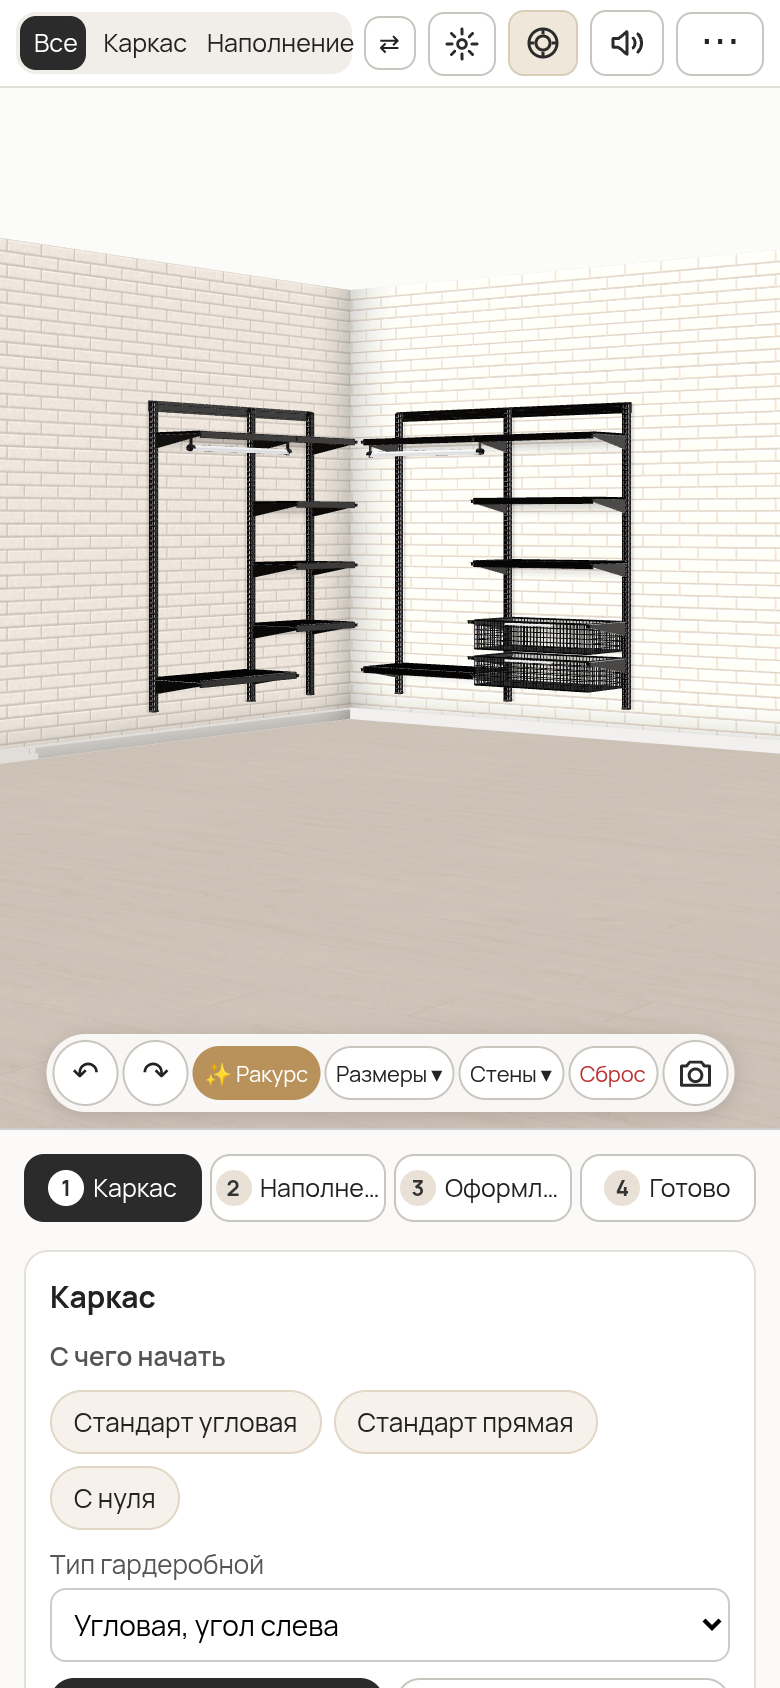
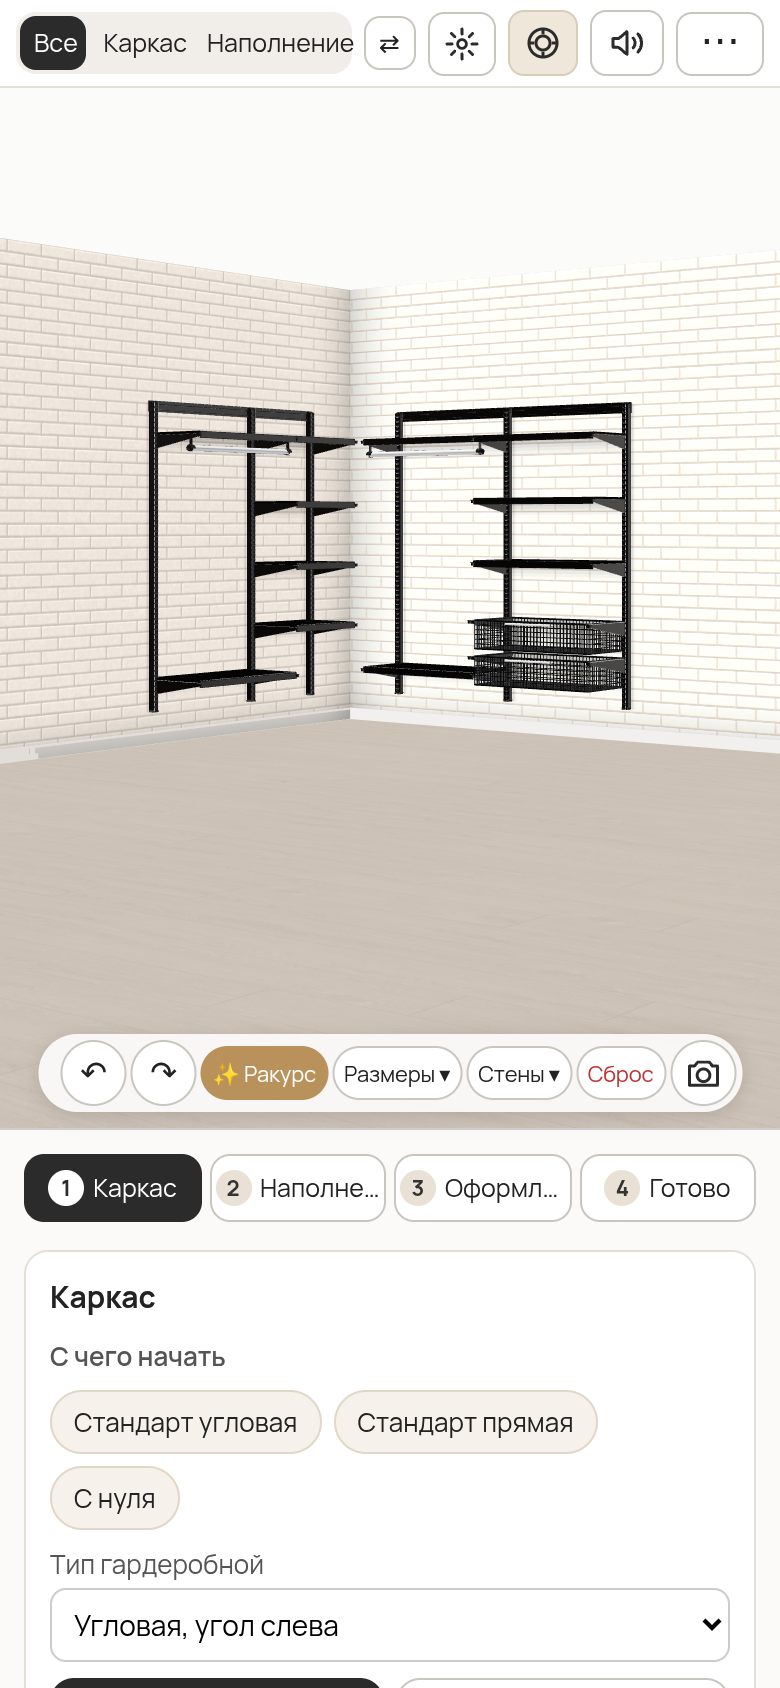
v11o: contrasty chrome rods, floor folds down below camera, shelf-rod link buttons, basket length/depth/height, slots only on upright front

diff --git a/app.js b/app.js
@@ -329,11 +329,12 @@ function makeMats() {
   M.wire = new THREE.MeshPhysicalMaterial({ ...PB, roughness: S.metal === 'black' ? 0.45 : 0.55, clearcoat: 0, sheen: 0, specularIntensity: 0.25, envMapIntensity: Math.min(0.6, PB.envMapIntensity || 0.6) });
   const dark = S.metal === 'black', pt = slotTex(false, dark).clone(); pt.needsUpdate = true; pt.repeat.set(1, S.postH / 32);
   // uprights: crisp perforation as color + bump relief, powder grain in the roughness
-  M.post = new THREE.MeshPhysicalMaterial({ ...PB, map: pt, bumpMap: pt, bumpScale: 2.2, roughnessMap: rep(G.rough, 1, S.postH / 60) });
+  M.postF = new THREE.MeshPhysicalMaterial({ ...PB, map: pt, bumpMap: pt, bumpScale: 2.2, roughnessMap: rep(G.rough, 1, S.postH / 60), polygonOffset: true, polygonOffsetFactor: -2, polygonOffsetUnits: -2 });
+  M.post = new THREE.MeshPhysicalMaterial({ ...PB, roughnessMap: rep(G.rough, 1, S.postH / 60) }); // solid sides; slots only on the front face
   const rt = slotTex(true, dark).clone(); rt.needsUpdate = true; M.railTex = rt;
   // top rail: smooth solid profile without perforation (only the uprights carry the slot rows)
   M.rail = new THREE.MeshPhysicalMaterial({ ...PB, normalMap: rep(G.nor, 30, 1), normalScale: new THREE.Vector2(0.18, 0.18), roughnessMap: rep(G.rough, 30, 1) });
-  M.chrome = new THREE.MeshPhysicalMaterial({ color: 0xffffff, metalness: 1, roughness: 0.05, clearcoat: 1, clearcoatRoughness: 0.02, specularIntensity: 1, emissive: new THREE.Color(0x5a5e64), envMap: chromeEnv(), envMapIntensity: 2 * Math.max(0.8, gm), userData: { chrome: true } });
+  M.chrome = new THREE.MeshPhysicalMaterial({ color: 0xffffff, metalness: 1, roughness: 0.03, clearcoat: 1, clearcoatRoughness: 0.01, specularIntensity: 1, emissive: new THREE.Color(0x0c0d0f), envMap: chromeEnv(), envMapIntensity: 1.7, userData: { chrome: true } });
   M.rod = S.rod === 'white' ? new THREE.MeshPhysicalMaterial({ color: METAL.white, metalness: 0.04, roughness: 0.3, clearcoat: 0.6, clearcoatRoughness: 0.16, emissive: new THREE.Color(0x10141a), sheen: 0.3, sheenColor: new THREE.Color(0xeef4ff), envMapIntensity: 0.95 * gm, normalMap: rep(G.nor, 8, 2), normalScale: new THREE.Vector2(0.2, 0.2) }) : M.chrome;
   M.plastic = new THREE.MeshStandardMaterial({ color: dark ? 0x2a2b2e : S.metal === 'silver' ? 0xb4b7ba : 0xf6f7f8, roughness: 0.5, metalness: 0 });
   M.rubber = new THREE.MeshStandardMaterial({ color: 0x3a3b3d, roughness: 0.85, metalness: 0 });
@@ -395,7 +396,7 @@ function buildWall(wi) {
   const pt = (S.railTop * 10 - 10) * MM;
   let xs = [0]; W.sections.forEach(s => xs.push(xs[xs.length - 1] + s.w * 10 * MM));
   // uprights (catalog 32 x 34 mm, drawn about 1.5x heavier so they read in photos) with hook head and end cap
-  xs.forEach((x, pi) => { const pb = pt - postLen(wi, pi) * MM, sel = selPost && selPost.wi === wi && selPost.i === pi, pm = new THREE.Mesh(new RoundedBoxGeometry(0.046, pt - pb, 0.042, 3, 0.0065), sel ? M.post.clone() : M.post); if (sel) { pm.material.emissive.set(0x2f7bff); pm.material.emissiveIntensity = 0.6; } pm.userData.post = { wi, i: pi }; pm.position.set(x, (pt + pb) / 2, 0.0225); pm.castShadow = pm.receiveShadow = true; pm.userData.frame = true; g.add(pm);
+  xs.forEach((x, pi) => { const pb = pt - postLen(wi, pi) * MM, sel = selPost && selPost.wi === wi && selPost.i === pi, pm = new THREE.Mesh(new RoundedBoxGeometry(0.046, pt - pb, 0.042, 3, 0.0065), sel ? M.post.clone() : M.post); if (sel) { pm.material.emissive.set(0x2f7bff); pm.material.emissiveIntensity = 0.6; } pm.userData.post = { wi, i: pi }; pm.position.set(x, (pt + pb) / 2, 0.0225); pm.castShadow = pm.receiveShadow = true; pm.userData.frame = true; g.add(pm); { const ff = new THREE.Mesh(new THREE.PlaneGeometry(0.034, pt - pb), M.postF); ff.position.set(x, (pt + pb) / 2, 0.0436); ff.userData.post = { wi, i: pi }; ff.userData.frame = true; ff.receiveShadow = true; g.add(ff); }
     const hk = new THREE.Mesh(new RoundedBoxGeometry(0.05, 0.034, 0.03, 2, 0.004), M.metal); hk.position.set(x, pt - 0.012, 0.0165); hk.castShadow = true; hk.userData.frame = true; g.add(hk);
     const cap = new THREE.Mesh(new RoundedBoxGeometry(0.048, 0.014, 0.044, 2, 0.004), M.plastic); cap.position.set(x, pb + 0.007, 0.0225); cap.userData.frame = true; g.add(cap);
     // painted contact darkening on the wall where the upright meets it (both sides), no SSAO pass needed
@@ -421,8 +422,8 @@ const ROD_G = new THREE.CylinderGeometry(1, 1, 1, 32, 1).translate(0, 0.5, 0), H
 let _GRM = null, _GRK = null; function gridMat() { if (_GRM && _GRK === M.metal) return _GRM; const c = document.createElement('canvas'); c.width = c.height = 64; const g = c.getContext('2d'); g.fillStyle = '#000'; g.fillRect(0, 0, 64, 64); g.fillStyle = '#fff'; g.fillRect(0, 0, 64, 9); g.fillRect(0, 0, 9, 64);
   const t = new THREE.CanvasTexture(c); t.wrapS = t.wrapT = THREE.RepeatWrapping; t.repeat.set(34, 15); t.anisotropy = 4; _GRK = M.metal; _GRM = M.metal.clone(); _GRM.alphaMap = t; _GRM.alphaTest = 0.5; _GRM.side = THREE.DoubleSide; _GRM.normalMap = null; return _GRM; }
 let _CHE = null; function chromeEnv() { if (_CHE) return _CHE; const c = document.createElement('canvas'); c.width = 512; c.height = 256; const g = c.getContext('2d');
-  const gr = g.createLinearGradient(0, 0, 0, 256); gr.addColorStop(0, '#fdfdfd'); gr.addColorStop(0.36, '#c9ced4'); gr.addColorStop(0.49, '#8d9298'); gr.addColorStop(0.55, '#6a6e74'); gr.addColorStop(0.75, '#b4b8bd'); gr.addColorStop(1, '#8a8d91'); g.fillStyle = gr; g.fillRect(0, 0, 512, 256);
-  g.fillStyle = '#ffffff'; [[40, 50], [200, 30], [330, 60], [450, 24]].forEach(([x, w]) => g.fillRect(x, 30, w, 70));
+  const gr = g.createLinearGradient(0, 0, 0, 256); gr.addColorStop(0, '#ffffff'); gr.addColorStop(0.3, '#dfe3e8'); gr.addColorStop(0.46, '#4a4e54'); gr.addColorStop(0.5, '#101113'); gr.addColorStop(0.56, '#6d7177'); gr.addColorStop(0.8, '#9a9ea3'); gr.addColorStop(1, '#55585c'); g.fillStyle = gr; g.fillRect(0, 0, 512, 256);
+  g.fillStyle = '#ffffff'; [[30, 40], [150, 22], [250, 56], [380, 30], [470, 18]].forEach(([x, w]) => g.fillRect(x, 10, w, 105)); g.fillStyle = '#1a1b1d'; [[100, 14], [215, 10], [330, 16], [440, 10]].forEach(([x, w]) => g.fillRect(x, 0, w, 256));
   const t = new THREE.CanvasTexture(c); t.mapping = THREE.EquirectangularReflectionMapping; t.colorSpace = THREE.SRGBColorSpace; _CHE = new THREE.PMREMGenerator(renderer).fromEquirectangular(t).texture; return _CHE; }
 function rodHolder(g, x, by, ry, zr) {
   // Titan-GS: pressed-steel strap riveted to the underside of the shelf bracket, ~100 mm drop, ending in a round cup that holds the chrome rod (system color)
@@ -966,6 +967,7 @@ function rebuild() {
   catcher.visible = !!photo && !$('showRoom').checked;
   room.visible = !photo || $('showRoom').checked;
   summary(); fillDims(); localStorage.setItem('gs_auto', JSON.stringify(S));
+  try { linkUI(); } catch (er) {}
   $('delBtn').classList.toggle('hide', !window.__propSel && !(window.__plantSel >= 0) && !(cur.it >= 0 && S.walls[cur.w].sections[cur.s] && S.walls[cur.w].sections[cur.s].items[cur.it]));
 }
 function setDims(on) { dimsG.visible = !!on && dimsOn(); }
@@ -1168,7 +1170,7 @@ const _sc = new THREE.OrthographicCamera();
 // the highlight light rides with the camera (up and to the right), so edge highlights travel as the view turns
 const _cr = new THREE.Vector3(), _cu = new THREE.Vector3(), _co = new THREE.Vector3();
 // walls and ceiling between the camera and the wardrobe disappear, so the view can go anywhere
-function tickOcc() { const cp = camera.position, und = cp.y < 0.002;  decor.children.forEach(c => { if (c.userData.rug) c.visible = !und; }); room.children.forEach(c => { const u = c.userData; if (u.floorM) { const fm = c.material; if (fm && !fm.isShadowMaterial && fm.userData.und !== und) { fm.userData.und = und; fm.side = THREE.DoubleSide; fm.transparent = und; fm.opacity = und ? 0.35 : 1; fm.depthWrite = !und; fm.needsUpdate = true; } return; } if (u.occ) { _co.copy(cp); u.occ.worldToLocal(_co); c.visible = _co.z > -0.08; } else if (u.occC != null) c.visible = cp.y < u.occC - 0.005; }); }
+function tickOcc() { const cp = camera.position, und = cp.y < 0.002;  decor.children.forEach(c => { if (c.userData.rug) c.visible = !und; }); room.children.forEach(c => { const u = c.userData; if (u.floorM) { if (!u.fb) u.fb = { p: c.position.clone(), r: c.rotation.x }; const th = cp.y < 0.15 ? Math.min(1.45, Math.atan2(0.15 - cp.y, Math.max(0.3, cp.z)) * 1.25) : 0, s = Math.sin(th), k = Math.cos(th); c.rotation.x = u.fb.r + th; c.position.set(u.fb.p.x, u.fb.p.y - u.fb.p.z * s, u.fb.p.z * k); return; } if (u.occ) { _co.copy(cp); u.occ.worldToLocal(_co); c.visible = _co.z > -0.08; } else if (u.occC != null) c.visible = cp.y < u.occC - 0.005; }); }
 function tickSpec() { if (!specL.intensity) return; _cr.set(1, 0, 0).applyQuaternion(camera.quaternion); _cu.set(0, 1, 0).applyQuaternion(camera.quaternion); specL.position.copy(camera.position).addScaledVector(_cr, 1.6).addScaledVector(_cu, 1.4); }
 function applyGlareShadow() {
   const R = S.room || {}, c = bbox.getCenter(new THREE.Vector3()), P = SHP[R.shP] || SHP.soft, ST = !!S.studio && !photo, gmode = R.glareM || 'soft';
@@ -1387,6 +1389,20 @@ function placeFree(sec, os, y0) {
   for (let y = y0 + 1; y <= hi; y++) if (ok(y)) return true;
   return false;
 }
+function linkUI() { let L = $('linkBar'); if (!L) { L = document.createElement('span'); L.id = 'linkBar'; L.style.cssText = 'display:inline-flex;gap:6px;margin-right:6px'; $('delBtn').before(L); }
+  const sc = S.walls[cur.w] && S.walls[cur.w].sections[cur.s], o = sc && cur.it >= 0 && sc.items[cur.it]; let h = '';
+  if (o && !window.__propSel && !(window.__plantSel >= 0)) {
+    if (o.g) h = '<button class="rnd lk" data-lk="rm">Убрать штангу</button><button class="rnd lk" data-lk="un">Отцепить штангу</button>';
+    else if (o.t === 'rail' && !o.lk) { const p = nearShelf(sc, o); if (p) h = '<button class="rnd lk" data-lk="at">Прикрепить к полке</button>'; }
+    else if (!isBasket(o.t) && o.t !== 'rail' && o.t !== 'trouser') h = '<button class="rnd lk" data-lk="add">Добавить штангу</button>'; }
+  if (L.innerHTML !== h) { L.innerHTML = h; L.querySelectorAll('[data-lk]').forEach(b => b.onclick = () => linkAct(b.dataset.lk)); } }
+function nearShelf(sc, r) { return sc.items.filter(p => !p.g && !p.lk && p.t !== 'rail' && !isBasket(p.t) && p.y > r.y && p.y - r.y <= 40).sort((a, b) => a.y - b.y)[0]; }
+function linkAct(k) { const sc = S.walls[cur.w].sections[cur.s], o = sc.items[cur.it]; if (!o) return;
+  if (k === 'add') { S.q = (S.q || 0) + 1; o.g = 'g' + S.q; const r = it('rail', 30, o.y - 10); r.lk = o.g; sc.items.push(r); }
+  else if (k === 'rm') { const g = o.g; sc.items = sc.items.filter(p => p.lk !== g); delete o.g; cur.it = sc.items.indexOf(o); }
+  else if (k === 'un') { const r = sc.items.find(p => p.lk === o.g); if (r) { delete r.lk; r.q = (S.q = (S.q || 0) + 1); } delete o.g; }
+  else if (k === 'at') { const p = nearShelf(sc, o); if (!p) return; S.q = (S.q || 0) + 1; p.g = 'g' + S.q; o.lk = p.g; cur.it = sc.items.indexOf(p); }
+  syncLinks(sc); rebuild(); renderSec(); }
 function removeItem(sec, i) { const o = sec.items[i]; sec.items.splice(i, 1); if (o && o.g) sec.items = sec.items.filter(p => p.lk !== o.g); }
 function secHint(wi) { const sc = S.walls[wi].sections, g = {}; sc.forEach(x => g[x.w] = (g[x.w] || 0) + 1); const word = n => n % 10 === 1 && n % 100 !== 11 ? 'секция' : [2, 3, 4].includes(n % 10) && ![12, 13, 14].includes(n % 100) ? 'секции' : 'секций'; return Object.entries(g).map(([w, n]) => `${n} ${word(n)} по ${w} см`).join(' + ') + ` = ${Math.round(wallWidth(wi) / 10)} см`; }
 function renderSizes() {
@@ -1449,7 +1465,7 @@ function renderSec() {
     e += `<div class="item${coll.has(i) ? ' warn' : ''}${cur.it === i ? ' sel' : ''}" data-row="${i}"><div class="top"><b class="num">${k + 1}</b><span class="mico">${ICO[c]}</span><select data-i="${i}" data-k="var">${VARS[c].map(([kk, v]) => `<option value="${kk}" ${kk === vv ? 'selected' : ''}>${v}</option>`).join('')}</select>
     ${isBasket(o.t) ? `<select data-i="${i}" data-k="h" class="dsel">${[85, 181, 285].map(v => `<option value="${v}" ${v === (o.h || 85) ? 'selected' : ''}>${v} мм</option>`).join('')}</select>` : ''}
     <button class="mini" data-sw="${i}" data-dir="-1" ${k === 0 ? 'disabled' : ''}>↑</button><button class="mini" data-sw="${i}" data-dir="1" ${k === ord.length - 1 ? 'disabled' : ''}>↓</button><button class="mini danger" data-del="${i}">✕</button></div>
-    ${isBasket(o.t) ? `<div class="btype">Выбрано: <b>${(VARS[c].find(([kk]) => kk === vv) || [0, ''])[1]}</b></div><div class="ld"><span>Глубина корзины</span><div class="sz">${depthsOf(o).map(d => `<button data-dep="${i}:${d}" class="${d === o.d ? 'on' : ''}" title="${REAL_DEPTH[o.t][d]} мм">${d}</button>`).join('')}</div></div><div class="ld"><span>Ширина корзины</span><div class="sz">${[...new Set((LENS[o.t] || [603, 903]).map(l => Math.round((l + 30) / 100) * 10))].map(w => `<button data-bw="${w}" class="${s.w === w ? 'on' : ''}">${w}</button>`).join('')}</div></div>` : ''}
+    ${isBasket(o.t) ? `<div class="btype">Выбрано: <b>${(VARS[c].find(([kk]) => kk === vv) || [0, ''])[1]}</b></div><div class="ld"><span>Глубина от стены</span><div class="sz">${depthsOf(o).map(d => `<button data-dep="${i}:${d}" class="${d === o.d ? 'on' : ''}" title="${REAL_DEPTH[o.t][d]} мм">${d}</button>`).join('')}</div></div><div class="ld"><span>Длина (вдоль стены)</span><div class="sz">${[...new Set((LENS[o.t] || [603, 903]).map(l => Math.round((l + 30) / 100) * 10))].map(w => `<button data-bw="${w}" class="${s.w === w ? 'on' : ''}">${w}</button>`).join('')}</div></div><div class="ld"><span>Высота корзины</span><div class="sz">${[[100, 'Низкая 10'], [200, 'Средняя 20'], [300, 'Высокая 30']].map(([h, t]) => `<button data-bh="${i}:${h}" class="${Math.abs((o.h || 85) - h) < 40 ? 'on' : ''}" title="${h} мм">${t}</button>`).join('')}</div></div>` : ''}
     <div class="ld"><span>Длина</span><div class="sz">${lensOf(o).map(mm => `<button data-len="${i}:${mm}" class="${secW(mm) === s.w ? 'on' : ''}" title="${mm} мм">${Math.round(mm / 10)}</button>`).join('')}</div></div>${o.t === 'rail' || isBasket(o.t) ? '' : `<div class="ld"><span>Глубина</span><div class="sz">${depthsOf(o).map(d => `<button data-dep="${i}:${d}" class="${d === o.d ? 'on' : ''}" title="${REAL_DEPTH[o.t][d]} мм">${d}</button>`).join('')}</div></div>`}
     <div class="yrow"><input type="range" data-i="${i}" data-k="yr" min="${lo}" max="${hi}" step="1" value="${o.y}"><label class="yn"><input type="number" data-i="${i}" data-k="y" value="${o.y}" min="${lo}" max="${hi}"> см</label></div>
     ${coll.has(i) ? '<div class="wtxt">Пересекается с соседним элементом</div>' : ''}</div>`;
@@ -1478,6 +1494,7 @@ function renderSec() {
   E.querySelectorAll('[data-sw]').forEach(b => b.onclick = () => { const i = +b.dataset.sw, k = ord.findIndex(p => p[1] === i), j = ord[k + +b.dataset.dir]; if (!j) return; const o = s.items[i], p = j[0], t = o.y; o.y = p.y; p.y = t; cur.it = i; go(); });
   E.querySelectorAll('[data-del]').forEach(b => b.onclick = () => { removeItem(s, +b.dataset.del); cur.it = -1; go(); });
   E.querySelectorAll('[data-len]').forEach(b => b.onclick = () => { const [i, mm] = b.dataset.len.split(':').map(Number); cur.it = i; s.w = secW(mm); go(); });
+  E.querySelectorAll('[data-bh]').forEach(b => b.onclick = () => { const [i, h] = b.dataset.bh.split(':').map(Number); cur.it = i; s.items[i].h = h; go(); });
   E.querySelectorAll('[data-bw]').forEach(b => b.onclick = () => { s.w = +b.dataset.bw; go(); });
   E.querySelectorAll('[data-dep]').forEach(b => b.onclick = () => { const [i, d] = b.dataset.dep.split(':').map(Number), o = s.items[i]; cur.it = i; o.d = d; s.items.forEach(p => { if (o.g && p.lk === o.g && DEPTHS[p.t].includes(d)) p.d = d; }); go(); });
 }

diff --git a/index.html b/index.html
@@ -2,7 +2,7 @@
 <meta http-equiv="Cache-Control" content="no-cache, no-store, must-revalidate"><meta http-equiv="Pragma" content="no-cache"><meta http-equiv="Expires" content="0"><meta charset="utf-8"><meta name="viewport" content="width=device-width,initial-scale=1,maximum-scale=1">
 <link rel="icon" href="data:,"><title>Конструктор гардеробной ТИТАН GS</title>
 <link rel="preconnect" href="https://fonts.googleapis.com"><link rel="preconnect" href="https://fonts.gstatic.com" crossorigin><link href="https://fonts.googleapis.com/css2?family=Inter:wght@400;500;700;800&family=Manrope:wght@400;500;600;700;800&family=Montserrat:wght@400;500;700;800&family=Playfair+Display:wght@500;600;700&display=swap" rel="stylesheet">
-<link rel="stylesheet" href="style.css?v=v11n">
+<link rel="stylesheet" href="style.css?v=v11o">
 <script type="importmap">{"imports":{"three":"https://cdn.jsdelivr.net/npm/three@0.160.0/build/three.module.js","three/addons/":"https://cdn.jsdelivr.net/npm/three@0.160.0/examples/jsm/"}}</script>
 </head><body>
 <div id="topbar"><div class="seg" id="szV"></div><button id="mirrorBtn" title="Отзеркалить всю конструкцию">⇄<span class="mtx"> Зеркально</span></button><button id="fxBtn" class="snd" title="Эффект" aria-label="Эффект"><svg viewBox="0 0 24 24" fill="none" stroke="currentColor" stroke-width="1.7" stroke-linecap="round"><path d="M12 3v3M12 18v3M3 12h3M18 12h3M5.6 5.6l2.1 2.1M16.3 16.3l2.1 2.1M5.6 18.4l2.1-2.1M16.3 7.7l2.1-2.1"/><circle cx="12" cy="12" r="2.6"/></svg></button><button id="lensBtn" class="snd" title="Камера: Обычная" aria-label="Камера"><svg viewBox="0 0 24 24" fill="none" stroke="currentColor" stroke-width="1.7"><circle cx="12" cy="12" r="8"/><circle class="l2" cx="12" cy="12" r="4"/><path class="l3" d="M12 4v3M12 17v3M4 12h3M17 12h3"/></svg></button><button id="sndBtn" class="snd" title="Звук" aria-label="Звук"><svg viewBox="0 0 24 24" fill="none" stroke="currentColor" stroke-width="1.7" stroke-linecap="round" stroke-linejoin="round"><path d="M4 9.5h3.2L12 5.5v13l-4.8-4H4z"/><path class="w1" d="M15.5 9.2a4 4 0 0 1 0 5.6"/><path class="w2" d="M18.2 6.8a7.4 7.4 0 0 1 0 10.4"/><path class="mx" d="M16 9.5l5 5M21 9.5l-5 5"/></svg></button><button id="moreBtn" title="Сохранить, загрузить, ссылка, шаблоны, снимки">⋯</button>
@@ -101,5 +101,5 @@
 </div>
 <p class="foot">Размеры элементов взяты из каталога ТИТАН GS 2024. Визуализация ориентировочная.</p>
 </div></div>
-<script type="module" src="app.js?v=v11n"></script>
+<script type="module" src="app.js?v=v11o"></script>
 </body></html>
